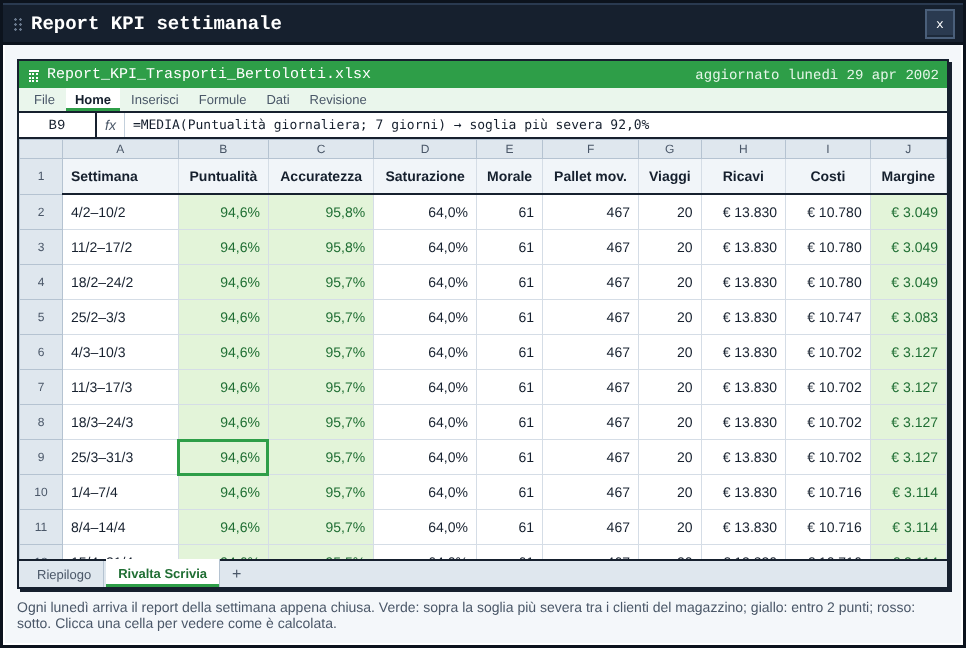
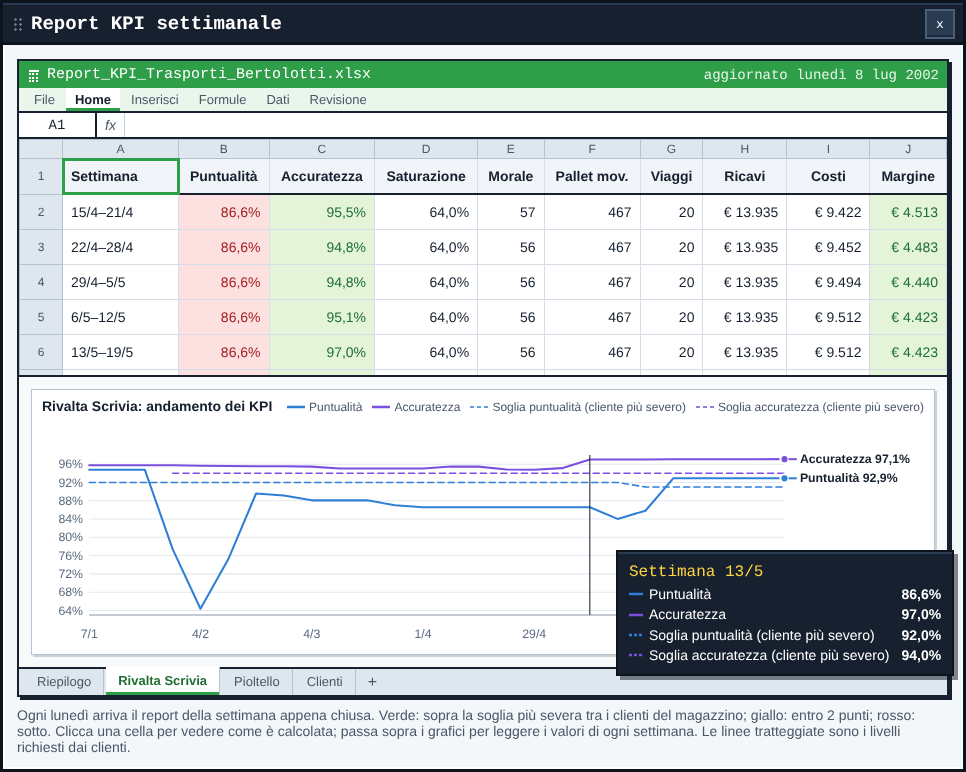
Report KPI: grafici a linee per magazzino, riepilogo e cliente con livelli richiesti
Claude-Session: https://claude.ai/code/session_01QZm2cL4ujBwUd23F2NHTPi

diff --git a/dist/fup.html b/dist/fup.html
@@ -75,6 +75,7 @@ button:focus-visible,input:focus-visible,select:focus-visible{outline:3px solid 
 .xl-fxl{padding:4px 8px;border-right:1px solid #c3d0dc;font-style:italic;color:var(--muted)}
 .xl-f{padding:4px 8px;font-family:ui-monospace,monospace;font-size:13px;white-space:nowrap;overflow:hidden;text-overflow:ellipsis}
 .xl-grid{overflow:auto;max-height:420px}
+.xl.has-ch .xl-grid{max-height:236px}
 .xl-grid table{border-collapse:collapse;font-size:14px;font-variant-numeric:tabular-nums;min-width:100%}
 .xl-grid th{background:#dfe7ee;color:var(--muted);font-weight:500;border:1px solid #b5c3d1;padding:2px 6px;font-size:12px;position:sticky;top:0}
 .xl-grid tbody th,.xl-h th{width:30px;position:static}
@@ -88,6 +89,19 @@ button:focus-visible,input:focus-visible,select:focus-visible{outline:3px solid 
 .xl-tabs button{padding:4px 12px;border:0;border-right:1px solid #b5c3d1;background:transparent;font-size:13px;color:var(--muted)}
 .xl-tabs button[aria-pressed="true"]{background:#fff;color:#1f6e33;font-weight:700;box-shadow:inset 0 -3px 0 #2e9e48;margin-top:-2px}
 .xl-plus{padding:4px 10px;color:var(--muted)}
+.xl-charts{padding:12px;background:#f7f9fb;border-top:2px solid var(--ink);display:flex;flex-direction:column;gap:12px}
+.lc-row{display:grid;grid-template-columns:1fr 1fr;gap:12px}
+.lc{margin:0;background:#fff;border:1px solid #b5c3d1;box-shadow:2px 2px 0 rgba(22,32,46,.18);padding:8px 10px 4px}
+.lc figcaption{display:flex;justify-content:space-between;align-items:baseline;gap:10px;flex-wrap:wrap;font-size:14px}
+.lc-leg{display:flex;gap:10px;flex-wrap:wrap;font-size:12px;color:var(--muted)}
+.lc-key{display:inline-flex;align-items:center;gap:4px}
+.lc-ax{font:12px var(--f-body,sans-serif);fill:#5b6b7f}
+.lc-dl{font:600 12px var(--f-body,sans-serif);fill:#16202e}
+.lc-empty{display:flex;flex-direction:column;gap:4px;padding:14px}
+.lc svg{display:block;cursor:crosshair}
+.xl-cli{display:flex;gap:4px;flex-wrap:wrap;padding:6px;border-bottom:2px solid var(--ink);background:#f1f5f9}
+.xl-cli button{display:inline-flex;align-items:center;gap:6px;padding:3px 8px;border:2px solid #b5c3d1;background:#fff;font-size:13px}
+.xl-cli button[aria-pressed="true"]{border-color:#2e9e48;box-shadow:inset 0 -3px 0 #2e9e48;font-weight:700}
 .treebox{overflow-x:auto;padding:4px 2px 8px}
 .tnode{position:absolute;display:flex;align-items:center;gap:7px;padding:4px 6px;text-align:left;border:2px solid var(--ink);box-shadow:inset 0 -3px 0 rgba(22,32,46,.12),2px 2px 0 var(--ink);font-size:13px;line-height:1.2}
 .tnode .tn{display:flex;flex-direction:column;gap:2px;min-width:0}
@@ -459,6 +473,52 @@ function statIcon(k,sz){const rows=STAT_IC[k]||[];let r='';rows.forEach((row,y)=
 function statTip(s,v){return `<div class='tt'>${s.n} ${v!=null?v:''}</div><div>${esc(s.d)}</div><div style='color:#c9d3dd;margin-top:4px'>Media 10 · ottimo da 15 in su</div>`;}
 function statChips(st,sz){sz=sz||16;return `<span class="stats">${STATS.map(s=>`<span class="stc" style="--sc:${s.c};--sb:${s.bg}" role="img" aria-label="${s.n} ${st[s.k]}" data-tip="${statTip(s,st[s.k])}">${statIcon(s.k,sz)}<b>${st[s.k]}</b></span>`).join('')}</span>`;}
 function statBadge(k,v,sz){const s=STATS.find(x=>x.k===k);return `<span class="stc" style="--sc:${s.c};--sb:${s.bg}" data-tip="${statTip(s,v)}">${statIcon(k,sz||14)}${v!=null?`<b>${v}</b>`:''}</span>`;}
+/* --- grafici a linee del report (stile "grafico Excel", pixel-friendly) --- */
+const SERIES_C=['#2f7fd6','#ff7a3d','#7b4fe0','#1f9e8f','#c98a00','#c2185b'];  // ordine fisso, validato (CVD ok)
+const KPI_C={P:'#2f7fd6',A:'#7b4fe0'};
+let CHARTS={};
+function lineChart(id,o){
+  const L=o.labels, n=L.length;
+  if(n<2) return `<div class="lc lc-empty"><b>${esc(o.title)}</b><span class="sm">Il grafico compare dalla seconda settimana di dati.</span></div>`;
+  const W=o.w||860,H=o.h||250, ml=46,mr=o.labels2===false?14:(o.mr||136),mt=40,mb=34, pw=W-ml-mr, ph=H-mt-mb;
+  const all=o.series.flatMap(s=>s.v.filter(v=>v!=null));
+  let lo=Math.floor(Math.min(...all)-0.6), hi=Math.ceil(Math.max(...all)+0.4); if(hi-lo<4){const m=(hi+lo)/2;lo=Math.floor(m-2);hi=Math.ceil(m+2);}
+  lo=Math.max(o.min!=null?o.min:0,lo); hi=Math.min(o.max!=null?o.max:100,hi);
+  const step=hi-lo>12?4:hi-lo>6?2:1;
+  const X=i=>ml+(n===1?pw/2:i*pw/(n-1)), Y=v=>mt+ph-(v-lo)/(hi-lo)*ph;
+  let g='';
+  for(let v=Math.ceil(lo/step)*step;v<=hi;v+=step) g+=`<line x1="${ml}" x2="${ml+pw}" y1="${Y(v)}" y2="${Y(v)}" stroke="#e3e9ef" stroke-width="1"/><text x="${ml-6}" y="${Y(v)+4}" text-anchor="end" class="lc-ax">${v}${o.unit||''}</text>`;
+  g+=`<line x1="${ml}" x2="${ml+pw}" y1="${mt+ph}" y2="${mt+ph}" stroke="#8a96a6" stroke-width="1"/>`;
+  const every=Math.ceil(n/8); L.forEach((l,i)=>{ if(i%every===0||(i===n-1&&(n-1)%every>=every/2)) g+=`<text x="${X(i)}" y="${H-12}" text-anchor="middle" class="lc-ax">${esc(l)}</text>`; });
+  // linee: prima le soglie (tratteggiate), poi i dati
+  const ends=[];
+  [...o.series].sort((a,b)=>(b.dash?1:0)-(a.dash?1:0)).forEach(s=>{
+    let d='',pen=false; s.v.forEach((v,i)=>{ if(v==null){pen=false;return;} d+=(pen?'L':'M')+X(i).toFixed(1)+' '+Y(v).toFixed(1); pen=true; });
+    g+=`<path d="${d}" fill="none" stroke="${s.c}" stroke-width="${s.dash?1.5:2}" ${s.dash?'stroke-dasharray="6 4"':''} stroke-linejoin="round" stroke-linecap="round"/>`;
+    if(!s.dash){ const i=s.v.map((v,i)=>v==null?-1:i).filter(i=>i>=0).pop(); if(i!=null&&i>=0){ g+=`<circle cx="${X(i)}" cy="${Y(s.v[i])}" r="4" fill="${s.c}" stroke="#fff" stroke-width="2"/>`; ends.push({y:Y(s.v[i]),t:`${s.short||s.n} ${f1(s.v[i])}${o.unit||''}`,c:s.c}); } }
+  });
+  // etichette dirette (al massimo 4 serie), distanziate per non sovrapporsi
+  if(o.labels2!==false&&ends.length<=4){ ends.sort((a,b)=>a.y-b.y); for(let i=1;i<ends.length;i++) if(ends[i].y-ends[i-1].y<15) ends[i].y=ends[i-1].y+15;
+    ends.forEach(e=>{ g+=`<line x1="${ml+pw+4}" x2="${ml+pw+12}" y1="${e.y}" y2="${e.y}" stroke="${e.c}" stroke-width="2"/><text x="${ml+pw+15}" y="${e.y+4}" class="lc-dl">${esc(e.t)}</text>`; }); }
+  const leg=o.series.map(s=>`<span class="lc-key"><svg width="18" height="8" aria-hidden="true"><line x1="0" x2="18" y1="4" y2="4" stroke="${s.c}" stroke-width="${s.dash?1.5:2.5}" ${s.dash?'stroke-dasharray="4 3"':''}/></svg>${esc(s.n)}</span>`).join('');
+  CHARTS[id]={L,series:o.series,unit:o.unit||'',ml,pw,n,W,mt,ph};
+  return `<figure class="lc"><figcaption><b>${esc(o.title)}</b><span class="lc-leg">${leg}</span></figcaption>
+   <svg viewBox="0 0 ${W} ${H}" width="100%" role="img" aria-label="${esc(o.title)}" data-chart="${id}">${g}
+    <line class="lc-x" x1="0" x2="0" y1="${mt}" y2="${mt+ph}" stroke="#16202e" stroke-width="1" visibility="hidden"/>
+    <rect class="lc-hit" x="${ml-10}" y="${mt-10}" width="${pw+20}" height="${ph+20}" fill="transparent"/></svg></figure>`;
+}
+function chartHover(e){
+  const svg=e.target.closest&&e.target.closest('svg[data-chart]'); const tip=$('#tip');
+  document.querySelectorAll('svg[data-chart] .lc-x').forEach(l=>{ if(!svg||!svg.contains(l)) l.setAttribute('visibility','hidden'); });
+  if(!svg){ if(chartHover.on){tip.hidden=true;chartHover.on=false;} return; }
+  const C=CHARTS[svg.dataset.chart]; if(!C) return;
+  const r=svg.getBoundingClientRect(), x=(e.clientX-r.left)/r.width*C.W, i=clamp(Math.round((x-C.ml)/C.pw*(C.n-1)),0,C.n-1), cx=C.ml+i*C.pw/(C.n-1);
+  const ln=svg.querySelector('.lc-x'); ln.setAttribute('x1',cx); ln.setAttribute('x2',cx); ln.setAttribute('visibility','visible');
+  tip.innerHTML=`<div class='tt'>Settimana ${esc(C.L[i])}</div>`+C.series.map(s=>`<div class='tr'><span style='display:flex;align-items:center;gap:6px'><svg width='14' height='6'><line x1='0' x2='14' y1='3' y2='3' stroke='${s.c}' stroke-width='2.5' ${s.dash?"stroke-dasharray='3 2'":''}/></svg>${esc(s.n)}</span><b>${s.v[i]==null?'—':f1(s.v[i])+C.unit}</b></div>`).join('');
+  tip.hidden=false; chartHover.on=true;
+  const w=tip.offsetWidth,h=tip.offsetHeight; tip.style.left=Math.min(e.clientX+14,innerWidth-w-8)+'px'; tip.style.top=Math.min(e.clientY+16,innerHeight-h-8)+'px';
+}
+document.addEventListener('pointermove',chartHover);
 function talentSvg(rows,sz){let r='';rows.forEach((row,y)=>{[...row].forEach((ch,x)=>{if(ch!=='.')r+=`<rect x="${x}" y="${y}" width="1" height="1" fill="${TPAL[ch]}"/>`;});});return `<svg width="${sz}" height="${sz}" viewBox="-1 -1 10 10" shape-rendering="crispEdges" aria-hidden="true">${r}</svg>`;}
 function talentIcons(list,sz){sz=sz||36;return `<span style="display:flex;gap:6px;flex-wrap:wrap">${list.map(n=>{const t=TALENTS[n];if(!t)return '';const ty=TTYPE[t.t];
   const tip=`<div class='tt'>${esc(n)}</div><div style='color:${ty[2]};font-weight:600'>${ty[0]}</div><div>${esc(t.fx)}</div><div style='margin-top:5px;color:#c9d3dd;font-style:italic'>${esc(t.fl)}</div>`;
@@ -616,7 +676,8 @@ function weekEnd(){
     rows[w.id]={P:k.P/k.n,A:k.A/k.n,sat:k.sat/k.n,mor:k.mor/k.n,mov:Math.round(k.mov),trips:Math.round(k.trips),rev:k.rev,cost:k.cost,
       sP:act.length?Math.max(...act.map(c=>c.sP)):null,sA:sA.length?Math.max(...sA):null};
     w.wk=null;});
-  if(!any) return; S.weeks.push({d:S.day,rows}); if(S.weeks.length>26) S.weeks.shift(); S.repNew=true;
+  const cli={}; S.clients.filter(c=>c.status==='attivo').forEach(c=>{const r=rows[c.wh]; if(r) cli[c.id]={P:r.P,A:r.A,sP:c.sP,sA:c.sA,sat:c.sat,wh:whById(c.wh).name};});
+  if(!any) return; S.weeks.push({d:S.day,rows,cli}); if(S.weeks.length>26) S.weeks.shift(); S.repNew=true;
 }
 function monthEnd(){
   S.months++;
@@ -1166,13 +1227,14 @@ const VIEWS={
   return `<div class="sm">I direttori guidano tutta l'azienda con la loro abilità principale. Puoi nominare manager già assunti e non assegnati a un magazzino, oppure dirigenti esterni.</div>${seats}<div class="lab">Dirigenti sul mercato</div>${cand}`;
  },
  report(){
-  S.repNew=false;
-  const sheets=[['sum','Riepilogo'],...S.warehouses.map(w=>[w.id,w.name])];
+  S.repNew=false; CHARTS={};
+  const sheets=[['sum','Riepilogo'],...S.warehouses.map(w=>[w.id,w.name]),['cli','Clienti']];
   const sh=sheets.find(x=>x[0]===UI.sel.sheet)?UI.sel.sheet:'sum';
   const W=S.weeks||[]; const COLS='ABCDEFGHIJKL';
   const wkLabel=d=>{const a=dateOf(d-7),b=dateOf(d-1);return `${a.getUTCDate()}/${a.getUTCMonth()+1}–${b.getUTCDate()}/${b.getUTCMonth()+1}`;};
   const cellSel=UI.sel.cell||'A1';
-  let head=[], rows=[], fx={};
+  let head=[], rows=[], fx={}, charts='', pre='';
+  const short=d=>{const a=dateOf(d-7);return `${a.getUTCDate()}/${a.getUTCMonth()+1}`;};
   const td=(ref,v,cls,f,al)=>{fx[ref]=f||v;return `<td data-act="cell" data-ref="${ref}" class="${cls||''}${ref===cellSel?' sel':''}" style="${al?'text-align:left':''}">${v}</td>`;};
   const pct=v=>v==null?'':f1(v)+'%';
   if(sh==='sum'){
@@ -1184,7 +1246,21 @@ const VIEWS={
       rows.push(`<tr><th>${r}</th>${td('A'+r,esc(w.name),'',w.name,1)}${td('B'+r,pct(L.P),kpiCls(L.P,L.sP),`='${w.name}'!B${hist.length+1}`)}${td('C'+r,ar(dP),'',`='${w.name}'!B${hist.length+1}-'${w.name}'!B${hist.length}`)}${td('D'+r,pct(L.A),kpiCls(L.A,L.sA),`='${w.name}'!C${hist.length+1}`)}${td('E'+r,ar(dA),'',`='${w.name}'!C${hist.length+1}-'${w.name}'!C${hist.length}`)}${td('F'+r,pct(L.sat*100),L.sat>0.95?'bad':L.sat>0.85?'warn':'',`='${w.name}'!D${hist.length+1}`)}${td('G'+r,Math.round(L.mor),L.mor<45?'bad':L.mor<55?'warn':'',`='${w.name}'!E${hist.length+1}`)}${td('H'+r,eur(L.rev-L.cost),L.rev-L.cost<0?'bad':'ok',`='${w.name}'!J${hist.length+1}`)}${td('I'+r,`<span class="spark">${sp}</span>`,'',`=SPARKLINE('${w.name}'!B2:B${hist.length+1})`)}</tr>`);});
     const n=S.warehouses.length+2, last=W[W.length-1];
     if(last){const ws=S.warehouses.map(w=>last.rows[w.id]).filter(Boolean); const m=k=>ws.reduce((a,x)=>a+x[k],0)/ws.length;
+      const lab=W.map(x=>short(x.d)), avg=(x,k)=>{const v=S.warehouses.map(w=>x.rows[w.id]).filter(Boolean);return v.length?v.reduce((a,r)=>a+r[k],0)/v.length:null;};
+      const ser=k=>[...S.warehouses.map((w,i)=>({n:w.name,short:w.name.split(' ')[0],c:SERIES_C[i%SERIES_C.length],v:W.map(x=>x.rows[w.id]?x.rows[w.id][k]:null)})),...(S.warehouses.length>1?[{n:'Media azienda',short:'Media',c:'#16202e',dash:true,v:W.map(x=>avg(x,k))}]:[])];
+      charts=`<div class="lc-row">${lineChart('sumP',{title:'Puntualità per magazzino',labels:lab,series:ser('P'),unit:'%',w:440,h:250,mr:118})}${lineChart('sumA',{title:'Accuratezza per magazzino',labels:lab,series:ser('A'),unit:'%',w:440,h:250,mr:118})}</div>`;
       rows.push(`<tr class="tot"><th>${n}</th>${td('A'+n,'Totale azienda','','Totale azienda',1)}${td('B'+n,pct(m('P')),'',`=MEDIA(B2:B${n-1})`)}${td('C'+n,'','')}${td('D'+n,pct(m('A')),'',`=MEDIA(D2:D${n-1})`)}${td('E'+n,'','')}${td('F'+n,pct(m('sat')*100),'',`=MEDIA(F2:F${n-1})`)}${td('G'+n,Math.round(m('mor')),'',`=MEDIA(G2:G${n-1})`)}${td('H'+n,eur(ws.reduce((a,x)=>a+x.rev-x.cost,0)),'',`=SOMMA(H2:H${n-1})`)}${td('I'+n,'','')}</tr>`);}
+  } else if(sh==='cli'){
+    const cl=S.clients.filter(c=>c.status!=='perso'&&c.status!=='avvio'); const c=cl.find(x=>x.id===UI.sel.cli)||cl[0];
+    pre=`<div class="xl-cli">${cl.map(x=>`<button data-act="selcli" data-id="${x.id}" aria-pressed="${c&&x.id===c.id}">${logoSvg(x.name,20)}${esc(x.name)}</button>`).join('')||'<span class="sm">Nessun cliente attivo.</span>'}</div>`;
+    head=['Settimana','Puntualità','Richiesta','Accuratezza','Richiesta','Soddisfazione','Magazzino'];
+    if(c){ const hs=W.map(x=>({d:x.d,...((x.cli||{})[c.id]||{})})).filter(x=>x.P!=null);
+      hs.slice(-12).forEach((h,i)=>{const r=i+2;
+        rows.push(`<tr><th>${r}</th>${td('A'+r,wkLabel(h.d),'',wkLabel(h.d),1)}${td('B'+r,pct(h.P),kpiCls(h.P,h.sP),`='${h.wh}'!Puntualità della settimana`)}${td('C'+r,'≥ '+pct(h.sP),'',`=Contratto ${c.name}: puntualità minima`)}${td('D'+r,pct(h.A),h.sA?kpiCls(h.A,h.sA):'',`='${h.wh}'!Accuratezza della settimana`)}${td('E'+r,h.sA?'≥ '+pct(h.sA):'non richiesta','',`=Contratto ${c.name}: accuratezza minima`)}${td('F'+r,Math.round(h.sat),h.sat<40?'bad':h.sat<60?'warn':'ok','=soddisfazione del cliente a fine settimana (0–100)')}${td('G'+r,esc(h.wh),'',h.wh,1)}</tr>`);});
+      charts=lineChart('cli',{h:230,title:`${c.name}: KPI e livelli richiesti dal contratto`,labels:hs.map(h=>short(h.d)),unit:'%',series:[
+        {n:'Puntualità',c:KPI_C.P,v:hs.map(h=>h.P)},{n:'Accuratezza',c:KPI_C.A,v:hs.map(h=>h.A)},
+        {n:'Puntualità richiesta',short:'Richiesta P',c:KPI_C.P,dash:true,v:hs.map(h=>h.sP)},
+        ...(c.sA?[{n:'Accuratezza richiesta',short:'Richiesta A',c:KPI_C.A,dash:true,v:hs.map(h=>h.sA)}]:[])]}); }
   } else {
     const w=whById(sh);
     head=['Settimana','Puntualità','Accuratezza','Saturazione','Morale','Pallet mov.','Viaggi','Ricavi','Costi','Margine'];
@@ -1194,20 +1270,26 @@ const VIEWS={
     if(hist.length){const n=hist.length+2,m=k=>hist.reduce((a,x)=>a+x[k],0)/hist.length,s=k=>hist.reduce((a,x)=>a+x[k],0);
       rows.push(`<tr class="tot"><th>${n}</th>${td('A'+n,'Media / Totale','','Media / Totale',1)}${td('B'+n,pct(m('P')),'',`=MEDIA(B2:B${n-1})`)}${td('C'+n,pct(m('A')),'',`=MEDIA(C2:C${n-1})`)}${td('D'+n,pct(m('sat')*100),'',`=MEDIA(D2:D${n-1})`)}${td('E'+n,Math.round(m('mor')),'',`=MEDIA(E2:E${n-1})`)}${td('F'+n,n0(s('mov')),'',`=SOMMA(F2:F${n-1})`)}${td('G'+n,n0(s('trips')),'',`=SOMMA(G2:G${n-1})`)}${td('H'+n,eur(s('rev')),'',`=SOMMA(H2:H${n-1})`)}${td('I'+n,eur(s('cost')),'',`=SOMMA(I2:I${n-1})`)}${td('J'+n,eur(s('rev')-s('cost')),s('rev')-s('cost')<0?'bad':'ok',`=SOMMA(J2:J${n-1})`)}</tr>`);}
   }
-  const minRows=Math.max(0,8-rows.length);
+  if(sh!=='sum'&&sh!=='cli'){ const w=whById(sh); const hs=W.map(x=>({d:x.d,...x.rows[w.id]})).filter(x=>x.P!=null);
+    charts=lineChart('wh',{h:230,title:`${w.name}: andamento dei KPI`,labels:hs.map(h=>short(h.d)),unit:'%',series:[
+      {n:'Puntualità',c:KPI_C.P,v:hs.map(h=>h.P)},{n:'Accuratezza',c:KPI_C.A,v:hs.map(h=>h.A)},
+      {n:'Soglia puntualità (cliente più severo)',short:'Soglia P',c:KPI_C.P,dash:true,v:hs.map(h=>h.sP)},
+      {n:'Soglia accuratezza (cliente più severo)',short:'Soglia A',c:KPI_C.A,dash:true,v:hs.map(h=>h.sA)}].filter(s=>s.v.some(v=>v!=null))}); }
+  const minRows=Math.max(0,(sh==='cli'?4:8)-rows.length);
   for(let i=0;i<minRows;i++){const r=rows.length+2;rows.push(`<tr><th>${r}</th>${head.map((_,j)=>td(COLS[j]+r,'','')).join('')}</tr>`);}
   const f=fx[cellSel]!=null?String(fx[cellSel]).replace(/<[^>]+>/g,''):'';
   const fname=`Report_KPI_${S.company.name.replace(/\W+/g,'_')}.xlsx`;
-  return `<div class="xl">
+  return `<div class="xl${charts?' has-ch':''}">
    <div class="xl-top"><span class="xl-file">${statIcon('amm',14)} ${esc(fname)}</span><span class="sm">${W.length?`aggiornato lunedì ${shortDate(W[W.length-1].d)}`:'il primo report arriva lunedì'}</span></div>
    <div class="xl-menu"><span>File</span><span class="on">Home</span><span>Inserisci</span><span>Formule</span><span>Dati</span><span>Revisione</span></div>
    <div class="xl-fx"><span class="xl-ref">${cellSel}</span><span class="xl-fxl">fx</span><span class="xl-f">${esc(f)}</span></div>
-   <div class="xl-grid"><table><thead><tr><th class="xl-corner"></th>${head.map((_,j)=>`<th>${COLS[j]}</th>`).join('')}</tr>
+   ${pre}<div class="xl-grid"><table><thead><tr><th class="xl-corner"></th>${head.map((_,j)=>`<th>${COLS[j]}</th>`).join('')}</tr>
     <tr class="xl-h"><th>1</th>${head.map((h,j)=>td(COLS[j]+'1',h,'',h,j===0)).join('')}</tr></thead>
     <tbody>${rows.join('')}</tbody></table></div>
+   ${charts?`<div class="xl-charts">${charts}</div>`:''}
    <div class="xl-tabs">${sheets.map(([id,n])=>`<button data-act="sheet" data-id="${id}" aria-pressed="${id===sh}">${esc(n)}</button>`).join('')}<span class="xl-plus">+</span></div>
   </div>
-  <div class="sm">Ogni lunedì arriva il report della settimana appena chiusa. Verde: sopra la soglia più severa tra i clienti del magazzino; giallo: entro 2 punti; rosso: sotto. Clicca una cella per vedere come è calcolata.</div>`;
+  <div class="sm">Ogni lunedì arriva il report della settimana appena chiusa. Verde: sopra la soglia più severa tra i clienti del magazzino; giallo: entro 2 punti; rosso: sotto. Clicca una cella per vedere come è calcolata; passa sopra i grafici per leggere i valori di ogni settimana. Le linee tratteggiate sono i livelli richiesti dai clienti.</div>`;
  },
  espansione(){
   const free=Object.entries(SITES).filter(([id])=>!S.warehouses.some(w=>w.site===id));
@@ -1265,6 +1347,7 @@ const ACT={
  },
  hiremgr(d){const m=S.managers.find(x=>x.id===d.id);m.hired=true;toast(`${m.name} entra in azienda: assegnalo a un magazzino o alla direzione`,'ok');const w=S.warehouses.find(w=>!w.mgr);if(w){w.mgr=m.id;m.wh=w.id;}renderAll();},
  firemgr(d){const m=S.managers.find(x=>x.id===d.id);const c=m.ral/12*COEF;S.cash-=c;S.cur.altro+=c;S.warehouses.forEach(w=>{if(w.mgr===m.id)w.mgr=null;});Object.keys(S.dirs).forEach(k=>{if(S.dirs[k]===m.id)S.dirs[k]=null;});m.hired=false;m.wh=null;renderAll();},
+ selcli(d){UI.sel.cli=d.id;UI.sel.cell='A1';renderWin('report');},
  sheet(d){UI.sel.sheet=d.id;UI.sel.cell='A1';renderWin('report');},
  cell(d){UI.sel.cell=d.ref;renderWin('report');},
  mapcli(d){UI.mapCli=UI.mapCli===d.id?null:d.id;renderMap();syncTrucks();renderAll();},
@@ -1321,7 +1404,7 @@ document.addEventListener('keydown',e=>{
 });
 // tooltip
 const tip=$('#tip');
-document.addEventListener('mouseover',e=>{const t=e.target.closest('[data-tip]');if(!t){tip.hidden=true;return;}tip.innerHTML=t.dataset.tip;tip.hidden=false;});
+document.addEventListener('mouseover',e=>{const t=e.target.closest('[data-tip]');if(!t){if(!e.target.closest('svg[data-chart]'))tip.hidden=true;return;}tip.innerHTML=t.dataset.tip;tip.hidden=false;});
 document.addEventListener('mousemove',e=>{if(tip.hidden)return;const w=tip.offsetWidth,h=tip.offsetHeight;tip.style.left=Math.min(e.clientX+14,innerWidth-w-8)+'px';tip.style.top=Math.min(e.clientY+16,innerHeight-h-8)+'px';});
 
 /* ====================== AVVIO ====================== */
@@ -1375,6 +1458,6 @@ const hot=window.claude&&window.claude.hot;
 if(hot&&hot.snapshot) hot.snapshot(()=>({S,uid}));
 function start(data){ if(data&&data.S){S=data.S;uid=data.uid||100;boot();} else showStart(); fitMap(); requestAnimationFrame(loop); requestAnimationFrame(animTrucks); }
 if(hot&&hot.ready) hot.ready(start); else start(hot&&hot.data);
-window.__FUP={get S(){return S;},step,newGame:(c)=>{uid=1;newGame(c,'',COLORS[0][0]);},computeWH,bidEstimate,EVENTS,TECH,TREES,techIcon,clientLog,logoSvg,LOGO,STATS,statIcon,weekEnd};
+window.__FUP={get S(){return S;},step,newGame:(c)=>{uid=1;newGame(c,'',COLORS[0][0]);},computeWH,bidEstimate,EVENTS,TECH,TREES,techIcon,clientLog,logoSvg,LOGO,STATS,statIcon,weekEnd,ACT};
 })();
 </script>

diff --git a/src/game.html b/src/game.html
@@ -75,6 +75,7 @@ button:focus-visible,input:focus-visible,select:focus-visible{outline:3px solid 
 .xl-fxl{padding:4px 8px;border-right:1px solid #c3d0dc;font-style:italic;color:var(--muted)}
 .xl-f{padding:4px 8px;font-family:ui-monospace,monospace;font-size:13px;white-space:nowrap;overflow:hidden;text-overflow:ellipsis}
 .xl-grid{overflow:auto;max-height:420px}
+.xl.has-ch .xl-grid{max-height:236px}
 .xl-grid table{border-collapse:collapse;font-size:14px;font-variant-numeric:tabular-nums;min-width:100%}
 .xl-grid th{background:#dfe7ee;color:var(--muted);font-weight:500;border:1px solid #b5c3d1;padding:2px 6px;font-size:12px;position:sticky;top:0}
 .xl-grid tbody th,.xl-h th{width:30px;position:static}
@@ -88,6 +89,19 @@ button:focus-visible,input:focus-visible,select:focus-visible{outline:3px solid 
 .xl-tabs button{padding:4px 12px;border:0;border-right:1px solid #b5c3d1;background:transparent;font-size:13px;color:var(--muted)}
 .xl-tabs button[aria-pressed="true"]{background:#fff;color:#1f6e33;font-weight:700;box-shadow:inset 0 -3px 0 #2e9e48;margin-top:-2px}
 .xl-plus{padding:4px 10px;color:var(--muted)}
+.xl-charts{padding:12px;background:#f7f9fb;border-top:2px solid var(--ink);display:flex;flex-direction:column;gap:12px}
+.lc-row{display:grid;grid-template-columns:1fr 1fr;gap:12px}
+.lc{margin:0;background:#fff;border:1px solid #b5c3d1;box-shadow:2px 2px 0 rgba(22,32,46,.18);padding:8px 10px 4px}
+.lc figcaption{display:flex;justify-content:space-between;align-items:baseline;gap:10px;flex-wrap:wrap;font-size:14px}
+.lc-leg{display:flex;gap:10px;flex-wrap:wrap;font-size:12px;color:var(--muted)}
+.lc-key{display:inline-flex;align-items:center;gap:4px}
+.lc-ax{font:12px var(--f-body,sans-serif);fill:#5b6b7f}
+.lc-dl{font:600 12px var(--f-body,sans-serif);fill:#16202e}
+.lc-empty{display:flex;flex-direction:column;gap:4px;padding:14px}
+.lc svg{display:block;cursor:crosshair}
+.xl-cli{display:flex;gap:4px;flex-wrap:wrap;padding:6px;border-bottom:2px solid var(--ink);background:#f1f5f9}
+.xl-cli button{display:inline-flex;align-items:center;gap:6px;padding:3px 8px;border:2px solid #b5c3d1;background:#fff;font-size:13px}
+.xl-cli button[aria-pressed="true"]{border-color:#2e9e48;box-shadow:inset 0 -3px 0 #2e9e48;font-weight:700}
 .treebox{overflow-x:auto;padding:4px 2px 8px}
 .tnode{position:absolute;display:flex;align-items:center;gap:7px;padding:4px 6px;text-align:left;border:2px solid var(--ink);box-shadow:inset 0 -3px 0 rgba(22,32,46,.12),2px 2px 0 var(--ink);font-size:13px;line-height:1.2}
 .tnode .tn{display:flex;flex-direction:column;gap:2px;min-width:0}
@@ -459,6 +473,52 @@ function statIcon(k,sz){const rows=STAT_IC[k]||[];let r='';rows.forEach((row,y)=
 function statTip(s,v){return `<div class='tt'>${s.n} ${v!=null?v:''}</div><div>${esc(s.d)}</div><div style='color:#c9d3dd;margin-top:4px'>Media 10 · ottimo da 15 in su</div>`;}
 function statChips(st,sz){sz=sz||16;return `<span class="stats">${STATS.map(s=>`<span class="stc" style="--sc:${s.c};--sb:${s.bg}" role="img" aria-label="${s.n} ${st[s.k]}" data-tip="${statTip(s,st[s.k])}">${statIcon(s.k,sz)}<b>${st[s.k]}</b></span>`).join('')}</span>`;}
 function statBadge(k,v,sz){const s=STATS.find(x=>x.k===k);return `<span class="stc" style="--sc:${s.c};--sb:${s.bg}" data-tip="${statTip(s,v)}">${statIcon(k,sz||14)}${v!=null?`<b>${v}</b>`:''}</span>`;}
+/* --- grafici a linee del report (stile "grafico Excel", pixel-friendly) --- */
+const SERIES_C=['#2f7fd6','#ff7a3d','#7b4fe0','#1f9e8f','#c98a00','#c2185b'];  // ordine fisso, validato (CVD ok)
+const KPI_C={P:'#2f7fd6',A:'#7b4fe0'};
+let CHARTS={};
+function lineChart(id,o){
+  const L=o.labels, n=L.length;
+  if(n<2) return `<div class="lc lc-empty"><b>${esc(o.title)}</b><span class="sm">Il grafico compare dalla seconda settimana di dati.</span></div>`;
+  const W=o.w||860,H=o.h||250, ml=46,mr=o.labels2===false?14:(o.mr||136),mt=40,mb=34, pw=W-ml-mr, ph=H-mt-mb;
+  const all=o.series.flatMap(s=>s.v.filter(v=>v!=null));
+  let lo=Math.floor(Math.min(...all)-0.6), hi=Math.ceil(Math.max(...all)+0.4); if(hi-lo<4){const m=(hi+lo)/2;lo=Math.floor(m-2);hi=Math.ceil(m+2);}
+  lo=Math.max(o.min!=null?o.min:0,lo); hi=Math.min(o.max!=null?o.max:100,hi);
+  const step=hi-lo>12?4:hi-lo>6?2:1;
+  const X=i=>ml+(n===1?pw/2:i*pw/(n-1)), Y=v=>mt+ph-(v-lo)/(hi-lo)*ph;
+  let g='';
+  for(let v=Math.ceil(lo/step)*step;v<=hi;v+=step) g+=`<line x1="${ml}" x2="${ml+pw}" y1="${Y(v)}" y2="${Y(v)}" stroke="#e3e9ef" stroke-width="1"/><text x="${ml-6}" y="${Y(v)+4}" text-anchor="end" class="lc-ax">${v}${o.unit||''}</text>`;
+  g+=`<line x1="${ml}" x2="${ml+pw}" y1="${mt+ph}" y2="${mt+ph}" stroke="#8a96a6" stroke-width="1"/>`;
+  const every=Math.ceil(n/8); L.forEach((l,i)=>{ if(i%every===0||(i===n-1&&(n-1)%every>=every/2)) g+=`<text x="${X(i)}" y="${H-12}" text-anchor="middle" class="lc-ax">${esc(l)}</text>`; });
+  // linee: prima le soglie (tratteggiate), poi i dati
+  const ends=[];
+  [...o.series].sort((a,b)=>(b.dash?1:0)-(a.dash?1:0)).forEach(s=>{
+    let d='',pen=false; s.v.forEach((v,i)=>{ if(v==null){pen=false;return;} d+=(pen?'L':'M')+X(i).toFixed(1)+' '+Y(v).toFixed(1); pen=true; });
+    g+=`<path d="${d}" fill="none" stroke="${s.c}" stroke-width="${s.dash?1.5:2}" ${s.dash?'stroke-dasharray="6 4"':''} stroke-linejoin="round" stroke-linecap="round"/>`;
+    if(!s.dash){ const i=s.v.map((v,i)=>v==null?-1:i).filter(i=>i>=0).pop(); if(i!=null&&i>=0){ g+=`<circle cx="${X(i)}" cy="${Y(s.v[i])}" r="4" fill="${s.c}" stroke="#fff" stroke-width="2"/>`; ends.push({y:Y(s.v[i]),t:`${s.short||s.n} ${f1(s.v[i])}${o.unit||''}`,c:s.c}); } }
+  });
+  // etichette dirette (al massimo 4 serie), distanziate per non sovrapporsi
+  if(o.labels2!==false&&ends.length<=4){ ends.sort((a,b)=>a.y-b.y); for(let i=1;i<ends.length;i++) if(ends[i].y-ends[i-1].y<15) ends[i].y=ends[i-1].y+15;
+    ends.forEach(e=>{ g+=`<line x1="${ml+pw+4}" x2="${ml+pw+12}" y1="${e.y}" y2="${e.y}" stroke="${e.c}" stroke-width="2"/><text x="${ml+pw+15}" y="${e.y+4}" class="lc-dl">${esc(e.t)}</text>`; }); }
+  const leg=o.series.map(s=>`<span class="lc-key"><svg width="18" height="8" aria-hidden="true"><line x1="0" x2="18" y1="4" y2="4" stroke="${s.c}" stroke-width="${s.dash?1.5:2.5}" ${s.dash?'stroke-dasharray="4 3"':''}/></svg>${esc(s.n)}</span>`).join('');
+  CHARTS[id]={L,series:o.series,unit:o.unit||'',ml,pw,n,W,mt,ph};
+  return `<figure class="lc"><figcaption><b>${esc(o.title)}</b><span class="lc-leg">${leg}</span></figcaption>
+   <svg viewBox="0 0 ${W} ${H}" width="100%" role="img" aria-label="${esc(o.title)}" data-chart="${id}">${g}
+    <line class="lc-x" x1="0" x2="0" y1="${mt}" y2="${mt+ph}" stroke="#16202e" stroke-width="1" visibility="hidden"/>
+    <rect class="lc-hit" x="${ml-10}" y="${mt-10}" width="${pw+20}" height="${ph+20}" fill="transparent"/></svg></figure>`;
+}
+function chartHover(e){
+  const svg=e.target.closest&&e.target.closest('svg[data-chart]'); const tip=$('#tip');
+  document.querySelectorAll('svg[data-chart] .lc-x').forEach(l=>{ if(!svg||!svg.contains(l)) l.setAttribute('visibility','hidden'); });
+  if(!svg){ if(chartHover.on){tip.hidden=true;chartHover.on=false;} return; }
+  const C=CHARTS[svg.dataset.chart]; if(!C) return;
+  const r=svg.getBoundingClientRect(), x=(e.clientX-r.left)/r.width*C.W, i=clamp(Math.round((x-C.ml)/C.pw*(C.n-1)),0,C.n-1), cx=C.ml+i*C.pw/(C.n-1);
+  const ln=svg.querySelector('.lc-x'); ln.setAttribute('x1',cx); ln.setAttribute('x2',cx); ln.setAttribute('visibility','visible');
+  tip.innerHTML=`<div class='tt'>Settimana ${esc(C.L[i])}</div>`+C.series.map(s=>`<div class='tr'><span style='display:flex;align-items:center;gap:6px'><svg width='14' height='6'><line x1='0' x2='14' y1='3' y2='3' stroke='${s.c}' stroke-width='2.5' ${s.dash?"stroke-dasharray='3 2'":''}/></svg>${esc(s.n)}</span><b>${s.v[i]==null?'—':f1(s.v[i])+C.unit}</b></div>`).join('');
+  tip.hidden=false; chartHover.on=true;
+  const w=tip.offsetWidth,h=tip.offsetHeight; tip.style.left=Math.min(e.clientX+14,innerWidth-w-8)+'px'; tip.style.top=Math.min(e.clientY+16,innerHeight-h-8)+'px';
+}
+document.addEventListener('pointermove',chartHover);
 function talentSvg(rows,sz){let r='';rows.forEach((row,y)=>{[...row].forEach((ch,x)=>{if(ch!=='.')r+=`<rect x="${x}" y="${y}" width="1" height="1" fill="${TPAL[ch]}"/>`;});});return `<svg width="${sz}" height="${sz}" viewBox="-1 -1 10 10" shape-rendering="crispEdges" aria-hidden="true">${r}</svg>`;}
 function talentIcons(list,sz){sz=sz||36;return `<span style="display:flex;gap:6px;flex-wrap:wrap">${list.map(n=>{const t=TALENTS[n];if(!t)return '';const ty=TTYPE[t.t];
   const tip=`<div class='tt'>${esc(n)}</div><div style='color:${ty[2]};font-weight:600'>${ty[0]}</div><div>${esc(t.fx)}</div><div style='margin-top:5px;color:#c9d3dd;font-style:italic'>${esc(t.fl)}</div>`;
@@ -616,7 +676,8 @@ function weekEnd(){
     rows[w.id]={P:k.P/k.n,A:k.A/k.n,sat:k.sat/k.n,mor:k.mor/k.n,mov:Math.round(k.mov),trips:Math.round(k.trips),rev:k.rev,cost:k.cost,
       sP:act.length?Math.max(...act.map(c=>c.sP)):null,sA:sA.length?Math.max(...sA):null};
     w.wk=null;});
-  if(!any) return; S.weeks.push({d:S.day,rows}); if(S.weeks.length>26) S.weeks.shift(); S.repNew=true;
+  const cli={}; S.clients.filter(c=>c.status==='attivo').forEach(c=>{const r=rows[c.wh]; if(r) cli[c.id]={P:r.P,A:r.A,sP:c.sP,sA:c.sA,sat:c.sat,wh:whById(c.wh).name};});
+  if(!any) return; S.weeks.push({d:S.day,rows,cli}); if(S.weeks.length>26) S.weeks.shift(); S.repNew=true;
 }
 function monthEnd(){
   S.months++;
@@ -1166,13 +1227,14 @@ const VIEWS={
   return `<div class="sm">I direttori guidano tutta l'azienda con la loro abilità principale. Puoi nominare manager già assunti e non assegnati a un magazzino, oppure dirigenti esterni.</div>${seats}<div class="lab">Dirigenti sul mercato</div>${cand}`;
  },
  report(){
-  S.repNew=false;
-  const sheets=[['sum','Riepilogo'],...S.warehouses.map(w=>[w.id,w.name])];
+  S.repNew=false; CHARTS={};
+  const sheets=[['sum','Riepilogo'],...S.warehouses.map(w=>[w.id,w.name]),['cli','Clienti']];
   const sh=sheets.find(x=>x[0]===UI.sel.sheet)?UI.sel.sheet:'sum';
   const W=S.weeks||[]; const COLS='ABCDEFGHIJKL';
   const wkLabel=d=>{const a=dateOf(d-7),b=dateOf(d-1);return `${a.getUTCDate()}/${a.getUTCMonth()+1}–${b.getUTCDate()}/${b.getUTCMonth()+1}`;};
   const cellSel=UI.sel.cell||'A1';
-  let head=[], rows=[], fx={};
+  let head=[], rows=[], fx={}, charts='', pre='';
+  const short=d=>{const a=dateOf(d-7);return `${a.getUTCDate()}/${a.getUTCMonth()+1}`;};
   const td=(ref,v,cls,f,al)=>{fx[ref]=f||v;return `<td data-act="cell" data-ref="${ref}" class="${cls||''}${ref===cellSel?' sel':''}" style="${al?'text-align:left':''}">${v}</td>`;};
   const pct=v=>v==null?'':f1(v)+'%';
   if(sh==='sum'){
@@ -1184,7 +1246,21 @@ const VIEWS={
       rows.push(`<tr><th>${r}</th>${td('A'+r,esc(w.name),'',w.name,1)}${td('B'+r,pct(L.P),kpiCls(L.P,L.sP),`='${w.name}'!B${hist.length+1}`)}${td('C'+r,ar(dP),'',`='${w.name}'!B${hist.length+1}-'${w.name}'!B${hist.length}`)}${td('D'+r,pct(L.A),kpiCls(L.A,L.sA),`='${w.name}'!C${hist.length+1}`)}${td('E'+r,ar(dA),'',`='${w.name}'!C${hist.length+1}-'${w.name}'!C${hist.length}`)}${td('F'+r,pct(L.sat*100),L.sat>0.95?'bad':L.sat>0.85?'warn':'',`='${w.name}'!D${hist.length+1}`)}${td('G'+r,Math.round(L.mor),L.mor<45?'bad':L.mor<55?'warn':'',`='${w.name}'!E${hist.length+1}`)}${td('H'+r,eur(L.rev-L.cost),L.rev-L.cost<0?'bad':'ok',`='${w.name}'!J${hist.length+1}`)}${td('I'+r,`<span class="spark">${sp}</span>`,'',`=SPARKLINE('${w.name}'!B2:B${hist.length+1})`)}</tr>`);});
     const n=S.warehouses.length+2, last=W[W.length-1];
     if(last){const ws=S.warehouses.map(w=>last.rows[w.id]).filter(Boolean); const m=k=>ws.reduce((a,x)=>a+x[k],0)/ws.length;
+      const lab=W.map(x=>short(x.d)), avg=(x,k)=>{const v=S.warehouses.map(w=>x.rows[w.id]).filter(Boolean);return v.length?v.reduce((a,r)=>a+r[k],0)/v.length:null;};
+      const ser=k=>[...S.warehouses.map((w,i)=>({n:w.name,short:w.name.split(' ')[0],c:SERIES_C[i%SERIES_C.length],v:W.map(x=>x.rows[w.id]?x.rows[w.id][k]:null)})),...(S.warehouses.length>1?[{n:'Media azienda',short:'Media',c:'#16202e',dash:true,v:W.map(x=>avg(x,k))}]:[])];
+      charts=`<div class="lc-row">${lineChart('sumP',{title:'Puntualità per magazzino',labels:lab,series:ser('P'),unit:'%',w:440,h:250,mr:118})}${lineChart('sumA',{title:'Accuratezza per magazzino',labels:lab,series:ser('A'),unit:'%',w:440,h:250,mr:118})}</div>`;
       rows.push(`<tr class="tot"><th>${n}</th>${td('A'+n,'Totale azienda','','Totale azienda',1)}${td('B'+n,pct(m('P')),'',`=MEDIA(B2:B${n-1})`)}${td('C'+n,'','')}${td('D'+n,pct(m('A')),'',`=MEDIA(D2:D${n-1})`)}${td('E'+n,'','')}${td('F'+n,pct(m('sat')*100),'',`=MEDIA(F2:F${n-1})`)}${td('G'+n,Math.round(m('mor')),'',`=MEDIA(G2:G${n-1})`)}${td('H'+n,eur(ws.reduce((a,x)=>a+x.rev-x.cost,0)),'',`=SOMMA(H2:H${n-1})`)}${td('I'+n,'','')}</tr>`);}
+  } else if(sh==='cli'){
+    const cl=S.clients.filter(c=>c.status!=='perso'&&c.status!=='avvio'); const c=cl.find(x=>x.id===UI.sel.cli)||cl[0];
+    pre=`<div class="xl-cli">${cl.map(x=>`<button data-act="selcli" data-id="${x.id}" aria-pressed="${c&&x.id===c.id}">${logoSvg(x.name,20)}${esc(x.name)}</button>`).join('')||'<span class="sm">Nessun cliente attivo.</span>'}</div>`;
+    head=['Settimana','Puntualità','Richiesta','Accuratezza','Richiesta','Soddisfazione','Magazzino'];
+    if(c){ const hs=W.map(x=>({d:x.d,...((x.cli||{})[c.id]||{})})).filter(x=>x.P!=null);
+      hs.slice(-12).forEach((h,i)=>{const r=i+2;
+        rows.push(`<tr><th>${r}</th>${td('A'+r,wkLabel(h.d),'',wkLabel(h.d),1)}${td('B'+r,pct(h.P),kpiCls(h.P,h.sP),`='${h.wh}'!Puntualità della settimana`)}${td('C'+r,'≥ '+pct(h.sP),'',`=Contratto ${c.name}: puntualità minima`)}${td('D'+r,pct(h.A),h.sA?kpiCls(h.A,h.sA):'',`='${h.wh}'!Accuratezza della settimana`)}${td('E'+r,h.sA?'≥ '+pct(h.sA):'non richiesta','',`=Contratto ${c.name}: accuratezza minima`)}${td('F'+r,Math.round(h.sat),h.sat<40?'bad':h.sat<60?'warn':'ok','=soddisfazione del cliente a fine settimana (0–100)')}${td('G'+r,esc(h.wh),'',h.wh,1)}</tr>`);});
+      charts=lineChart('cli',{h:230,title:`${c.name}: KPI e livelli richiesti dal contratto`,labels:hs.map(h=>short(h.d)),unit:'%',series:[
+        {n:'Puntualità',c:KPI_C.P,v:hs.map(h=>h.P)},{n:'Accuratezza',c:KPI_C.A,v:hs.map(h=>h.A)},
+        {n:'Puntualità richiesta',short:'Richiesta P',c:KPI_C.P,dash:true,v:hs.map(h=>h.sP)},
+        ...(c.sA?[{n:'Accuratezza richiesta',short:'Richiesta A',c:KPI_C.A,dash:true,v:hs.map(h=>h.sA)}]:[])]}); }
   } else {
     const w=whById(sh);
     head=['Settimana','Puntualità','Accuratezza','Saturazione','Morale','Pallet mov.','Viaggi','Ricavi','Costi','Margine'];
@@ -1194,20 +1270,26 @@ const VIEWS={
     if(hist.length){const n=hist.length+2,m=k=>hist.reduce((a,x)=>a+x[k],0)/hist.length,s=k=>hist.reduce((a,x)=>a+x[k],0);
       rows.push(`<tr class="tot"><th>${n}</th>${td('A'+n,'Media / Totale','','Media / Totale',1)}${td('B'+n,pct(m('P')),'',`=MEDIA(B2:B${n-1})`)}${td('C'+n,pct(m('A')),'',`=MEDIA(C2:C${n-1})`)}${td('D'+n,pct(m('sat')*100),'',`=MEDIA(D2:D${n-1})`)}${td('E'+n,Math.round(m('mor')),'',`=MEDIA(E2:E${n-1})`)}${td('F'+n,n0(s('mov')),'',`=SOMMA(F2:F${n-1})`)}${td('G'+n,n0(s('trips')),'',`=SOMMA(G2:G${n-1})`)}${td('H'+n,eur(s('rev')),'',`=SOMMA(H2:H${n-1})`)}${td('I'+n,eur(s('cost')),'',`=SOMMA(I2:I${n-1})`)}${td('J'+n,eur(s('rev')-s('cost')),s('rev')-s('cost')<0?'bad':'ok',`=SOMMA(J2:J${n-1})`)}</tr>`);}
   }
-  const minRows=Math.max(0,8-rows.length);
+  if(sh!=='sum'&&sh!=='cli'){ const w=whById(sh); const hs=W.map(x=>({d:x.d,...x.rows[w.id]})).filter(x=>x.P!=null);
+    charts=lineChart('wh',{h:230,title:`${w.name}: andamento dei KPI`,labels:hs.map(h=>short(h.d)),unit:'%',series:[
+      {n:'Puntualità',c:KPI_C.P,v:hs.map(h=>h.P)},{n:'Accuratezza',c:KPI_C.A,v:hs.map(h=>h.A)},
+      {n:'Soglia puntualità (cliente più severo)',short:'Soglia P',c:KPI_C.P,dash:true,v:hs.map(h=>h.sP)},
+      {n:'Soglia accuratezza (cliente più severo)',short:'Soglia A',c:KPI_C.A,dash:true,v:hs.map(h=>h.sA)}].filter(s=>s.v.some(v=>v!=null))}); }
+  const minRows=Math.max(0,(sh==='cli'?4:8)-rows.length);
   for(let i=0;i<minRows;i++){const r=rows.length+2;rows.push(`<tr><th>${r}</th>${head.map((_,j)=>td(COLS[j]+r,'','')).join('')}</tr>`);}
   const f=fx[cellSel]!=null?String(fx[cellSel]).replace(/<[^>]+>/g,''):'';
   const fname=`Report_KPI_${S.company.name.replace(/\W+/g,'_')}.xlsx`;
-  return `<div class="xl">
+  return `<div class="xl${charts?' has-ch':''}">
    <div class="xl-top"><span class="xl-file">${statIcon('amm',14)} ${esc(fname)}</span><span class="sm">${W.length?`aggiornato lunedì ${shortDate(W[W.length-1].d)}`:'il primo report arriva lunedì'}</span></div>
    <div class="xl-menu"><span>File</span><span class="on">Home</span><span>Inserisci</span><span>Formule</span><span>Dati</span><span>Revisione</span></div>
    <div class="xl-fx"><span class="xl-ref">${cellSel}</span><span class="xl-fxl">fx</span><span class="xl-f">${esc(f)}</span></div>
-   <div class="xl-grid"><table><thead><tr><th class="xl-corner"></th>${head.map((_,j)=>`<th>${COLS[j]}</th>`).join('')}</tr>
+   ${pre}<div class="xl-grid"><table><thead><tr><th class="xl-corner"></th>${head.map((_,j)=>`<th>${COLS[j]}</th>`).join('')}</tr>
     <tr class="xl-h"><th>1</th>${head.map((h,j)=>td(COLS[j]+'1',h,'',h,j===0)).join('')}</tr></thead>
     <tbody>${rows.join('')}</tbody></table></div>
+   ${charts?`<div class="xl-charts">${charts}</div>`:''}
    <div class="xl-tabs">${sheets.map(([id,n])=>`<button data-act="sheet" data-id="${id}" aria-pressed="${id===sh}">${esc(n)}</button>`).join('')}<span class="xl-plus">+</span></div>
   </div>
-  <div class="sm">Ogni lunedì arriva il report della settimana appena chiusa. Verde: sopra la soglia più severa tra i clienti del magazzino; giallo: entro 2 punti; rosso: sotto. Clicca una cella per vedere come è calcolata.</div>`;
+  <div class="sm">Ogni lunedì arriva il report della settimana appena chiusa. Verde: sopra la soglia più severa tra i clienti del magazzino; giallo: entro 2 punti; rosso: sotto. Clicca una cella per vedere come è calcolata; passa sopra i grafici per leggere i valori di ogni settimana. Le linee tratteggiate sono i livelli richiesti dai clienti.</div>`;
  },
  espansione(){
   const free=Object.entries(SITES).filter(([id])=>!S.warehouses.some(w=>w.site===id));
@@ -1265,6 +1347,7 @@ const ACT={
  },
  hiremgr(d){const m=S.managers.find(x=>x.id===d.id);m.hired=true;toast(`${m.name} entra in azienda: assegnalo a un magazzino o alla direzione`,'ok');const w=S.warehouses.find(w=>!w.mgr);if(w){w.mgr=m.id;m.wh=w.id;}renderAll();},
  firemgr(d){const m=S.managers.find(x=>x.id===d.id);const c=m.ral/12*COEF;S.cash-=c;S.cur.altro+=c;S.warehouses.forEach(w=>{if(w.mgr===m.id)w.mgr=null;});Object.keys(S.dirs).forEach(k=>{if(S.dirs[k]===m.id)S.dirs[k]=null;});m.hired=false;m.wh=null;renderAll();},
+ selcli(d){UI.sel.cli=d.id;UI.sel.cell='A1';renderWin('report');},
  sheet(d){UI.sel.sheet=d.id;UI.sel.cell='A1';renderWin('report');},
  cell(d){UI.sel.cell=d.ref;renderWin('report');},
  mapcli(d){UI.mapCli=UI.mapCli===d.id?null:d.id;renderMap();syncTrucks();renderAll();},
@@ -1321,7 +1404,7 @@ document.addEventListener('keydown',e=>{
 });
 // tooltip
 const tip=$('#tip');
-document.addEventListener('mouseover',e=>{const t=e.target.closest('[data-tip]');if(!t){tip.hidden=true;return;}tip.innerHTML=t.dataset.tip;tip.hidden=false;});
+document.addEventListener('mouseover',e=>{const t=e.target.closest('[data-tip]');if(!t){if(!e.target.closest('svg[data-chart]'))tip.hidden=true;return;}tip.innerHTML=t.dataset.tip;tip.hidden=false;});
 document.addEventListener('mousemove',e=>{if(tip.hidden)return;const w=tip.offsetWidth,h=tip.offsetHeight;tip.style.left=Math.min(e.clientX+14,innerWidth-w-8)+'px';tip.style.top=Math.min(e.clientY+16,innerHeight-h-8)+'px';});
 
 /* ====================== AVVIO ====================== */
@@ -1375,6 +1458,6 @@ const hot=window.claude&&window.claude.hot;
 if(hot&&hot.snapshot) hot.snapshot(()=>({S,uid}));
 function start(data){ if(data&&data.S){S=data.S;uid=data.uid||100;boot();} else showStart(); fitMap(); requestAnimationFrame(loop); requestAnimationFrame(animTrucks); }
 if(hot&&hot.ready) hot.ready(start); else start(hot&&hot.data);
-window.__FUP={get S(){return S;},step,newGame:(c)=>{uid=1;newGame(c,'',COLORS[0][0]);},computeWH,bidEstimate,EVENTS,TECH,TREES,techIcon,clientLog,logoSvg,LOGO,STATS,statIcon,weekEnd};
+window.__FUP={get S(){return S;},step,newGame:(c)=>{uid=1;newGame(c,'',COLORS[0][0]);},computeWH,bidEstimate,EVENTS,TECH,TREES,techIcon,clientLog,logoSvg,LOGO,STATS,statIcon,weekEnd,ACT};
 })();
 </script>

diff --git a/docs/design.md b/docs/design.md
@@ -34,6 +34,11 @@ Questo è il riferimento per le meccaniche del prototipo. In caso di dubbio, fa 
 
 ## Report KPI settimanale
 - Ogni lunedì si chiude la settimana: per ogni magazzino si salvano le medie di Puntualità, Accuratezza, saturazione e morale, insieme ai pallet movimentati, ai viaggi, ai ricavi e ai costi (vengono conservate le ultime 26 settimane in `S.weeks`).
+- I grafici a linee del report (passando il mouse si leggono i valori di ogni settimana):
+  - nel Riepilogo, Puntualità e Accuratezza per magazzino in due grafici separati, più la media dell'azienda tratteggiata;
+  - nel foglio di ogni magazzino, entrambi i KPI e la soglia più severa tra i clienti (tratteggiata);
+  - nel foglio Clienti, i KPI del magazzino che serve il cliente scelto e i livelli richiesti dal suo contratto. Per ogni cliente si salvano ogni settimana KPI, soglie e soddisfazione in `S.weeks[].cli`.
+- Colori fissi delle serie (controllati per chi distingue male i colori): Puntualità blu `#2f7fd6`, Accuratezza viola `#7b4fe0`; i magazzini seguono l'ordine `SERIES_C`.
 - La finestra "Report KPI" imita un foglio Excel: un foglio di riepilogo, un foglio per ogni magazzino, la barra della formula che spiega la cella selezionata e i colori condizionali. Verde = sopra la soglia più severa tra i clienti del magazzino, giallo = entro 2 punti, rosso = sotto.
 
 ## Gare (tender)

diff --git a/CLAUDE.md b/CLAUDE.md
@@ -56,6 +56,7 @@ docs/              design.md (regole e formule), foglio KPI/bilanciamento, scree
 - Grafica: pixel art moderna e colorata, bordi scuri `#16202e`, ombre nette, font *Pixelify Sans* (titoli) e *IBM Plex Sans Condensed* (testo). Colori dalla tavolozza `TPAL`. Le icone sono SVG con `shape-rendering="crispEdges"`.
 - Ogni abilità ha un colore fisso: Operazioni arancione, Precisione blu, Negoziazione giallo, Leadership rosso, Amministrazione verde, Innovazione viola. Mostra sempre le abilità con `statChips()` / `statBadge()`, mai come semplice testo.
 - Ogni nuovo cliente deve avere un logo in `LOGO` e una voce in `CINFO`.
+- I grafici sono SVG fatti a mano (`lineChart()`, con crosshair e tooltip in `chartHover`): niente librerie; linee da 2px, le soglie tratteggiate, la legenda sempre presente e le etichette dirette al massimo per 4 serie; una sola scala per grafico.
 - Il report KPI imita Excel (barra verde, schede dei fogli, barra della formula), ma resta nella nostra tavolozza.
 - Cornici delle tecnologie: Logistica = quadrato arancione, Sviluppo aziendale = ottagono viola, Mercato = tondo verde.
 - Interfaccia: mappa a tutto schermo con finestre mobili sopra (stile Paradox); font base grande e leggibile.
